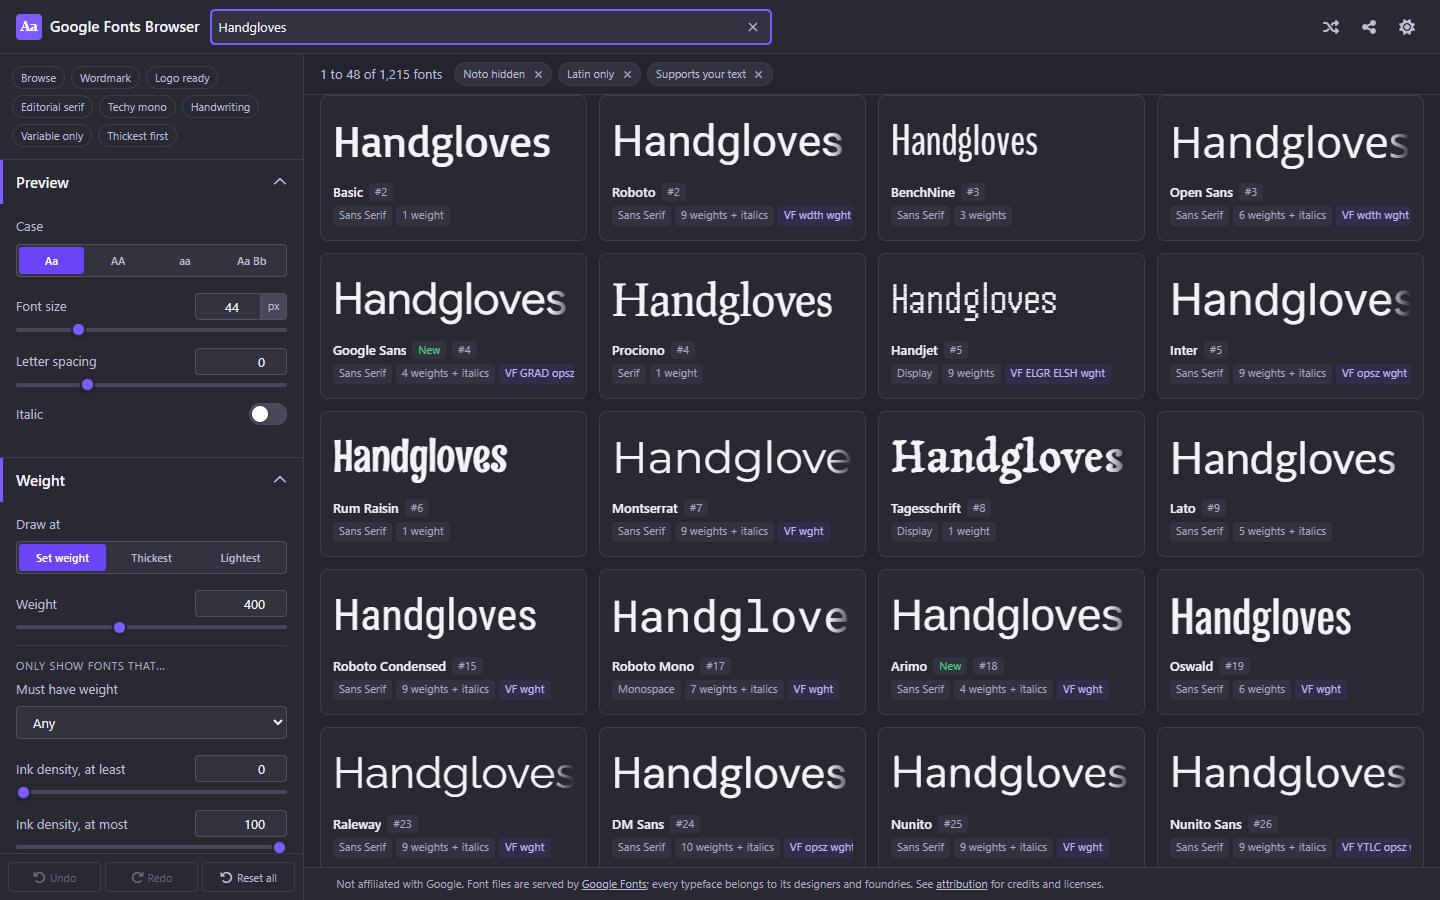
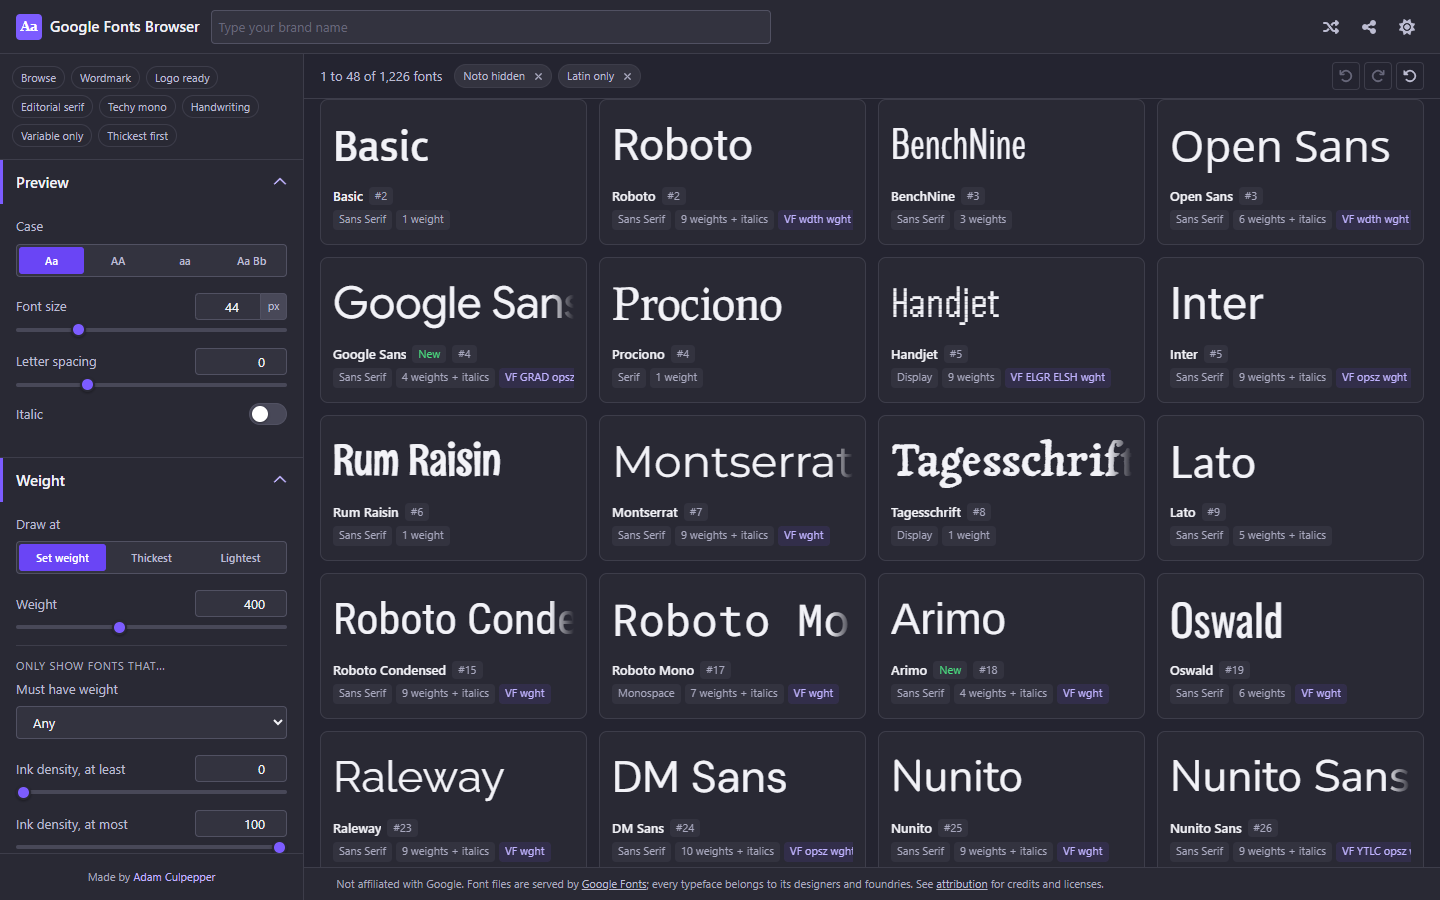
Launch kit: default-view social cards in dark mode, theme color, limits section

diff --git a/index.html b/index.html
@@ -62,6 +62,7 @@
       }
     </script>
 
+    <meta name="theme-color" content="#20202a" />
     <link rel="icon" type="image/svg+xml" href="./favicon.svg" />
     <!-- The font CSS and the font files come from two different Google hosts;
          warming both connections early saves a round trip on the first specimen. -->

diff --git a/README.md b/README.md
@@ -169,6 +169,14 @@ Vite 5 and React 18, no TypeScript, plain co-located CSS with custom properties.
 
 The data pipeline carries no dependencies at all. The TrueType parser, the scanline rasterizer, the coverage bitset codec, and the base64 encoder are written out against the Node 22 stdlib, and the same coverage module runs unchanged in the browser. Global `fetch` is the real floor, so Node 18 or newer will run it. CI stays on Node 20 and never runs the pipeline, only the offline verify.
 
+## Limits
+
+- Coverage checks are exact for 489 common codepoints and fall back to subset-level data beyond them. A rare symbol can slip through and render as a missing-glyph box; the card then says which characters are missing.
+- The catalog is a snapshot, not a feed. New Google families appear after `npm run data:refresh` is run and committed, which is a roughly monthly chore.
+- Tested in Chromium-family browsers. Safari has not had a pass yet; the coverage probe may degrade to "unknown" there, which fails open, so fonts are shown rather than hidden on a guess.
+- Ink density is measured at each family's heaviest weight on a Latin sample. Non-Latin families are measured on their own script and marked non-comparable instead of being ranked against Latin faces.
+- The default view hides Noto families and non-Latin-primary families. Both filters show as removable chips, so nothing is hidden silently, but the defaults do assume a Latin-script use case.
+
 ## Attribution
 
 This project is not affiliated with Google. It is an independent browser for a public catalog.
